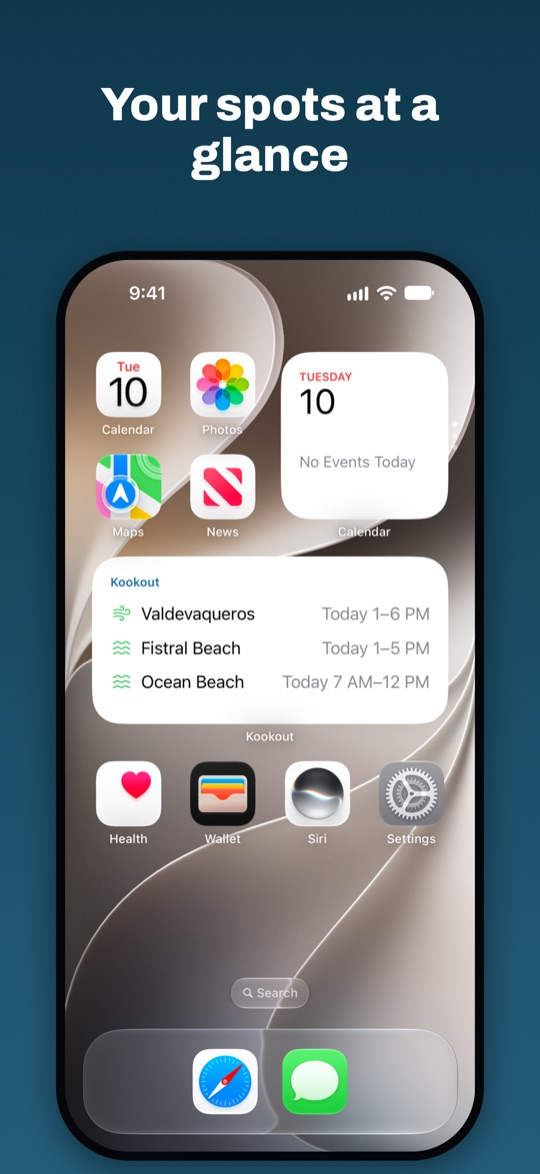
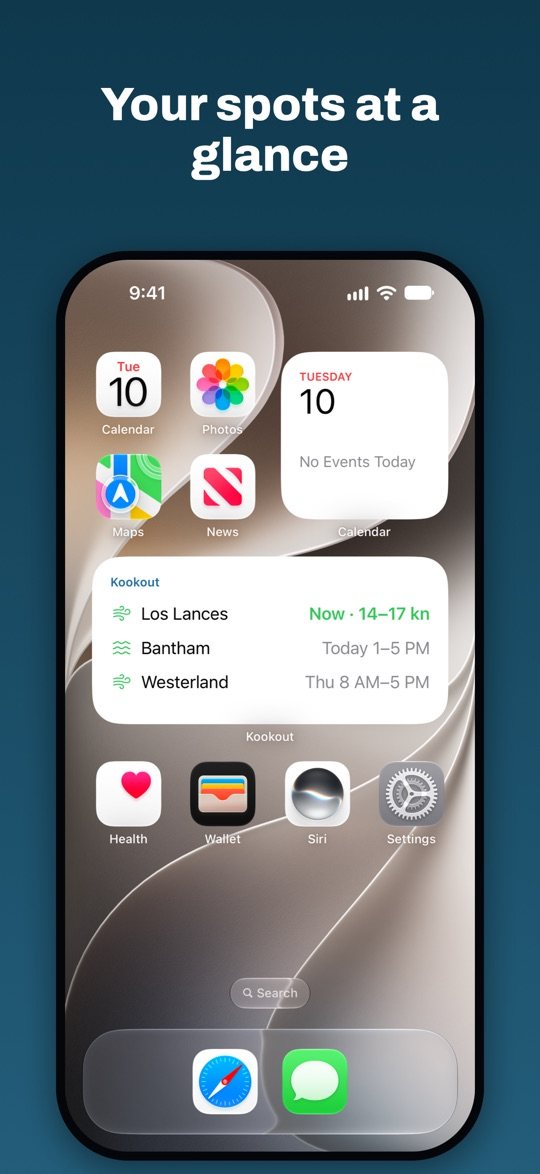
App Store screenshots 6 and 7 retaken with 1.1 build 21 (Lock Screen no longer cut off, no ghost behind the enlarged widget); landing page images to match

Changed region(s): [[0.2667, 0.5213, 0.4741, 0.6133], [0.5333, 0.4906, 0.8, 0.5826], [0.2074, 0.552, 0.237, 0.6133]]

diff --git a/CLAUDE.md b/CLAUDE.md
@@ -138,8 +138,10 @@ cd relay && npx wrangler d1 execute kookout --remote --command "SELECT …"
 **Open decisions for Christian (nothing below is done until he says so):**
 1. ~~Relay `GET /stats`~~ **Done 10 Nov:** deployed from `release/1.1` (version 018fb777) with Christian's OK.
    `{"riders":19,"spots":26}` (active in 30 days), cached an hour, CORS open; `/widget`, `/analyse`, `/tz` checked after.
-2. **Screenshot 7** (widget) for the 1.1 listing: the current file shows the old Lock Screen; retake with build 21 and
-   add it, or skip it.
+2. **Screenshots 6 and 7** (widgets): **retaken 10 Nov with build 21** (`appstore/framed-6.3/6-home-widgets.png`,
+   `7-lock-widgets.png` on main; also `img/` for the landing page). Real forecasts of Los Lances, Bantham, Westerland,
+   US English. The old 7 had a cut-off inline line and a ghost copy of the widget. **Christian uploads them** in App
+   Store Connect → 1.1 → iPhone 6.3": replace 6, add 7.
 3. **Build 21 to the testers** ("Family plus a couple guys"): optional, one App Store Connect step.
 4. **Submit 1.1:** App Store Connect → 1.1 → Add for Review → Submit (manual release). Promotional text is not
    copied to a new version; it's filled in for 1.1.
